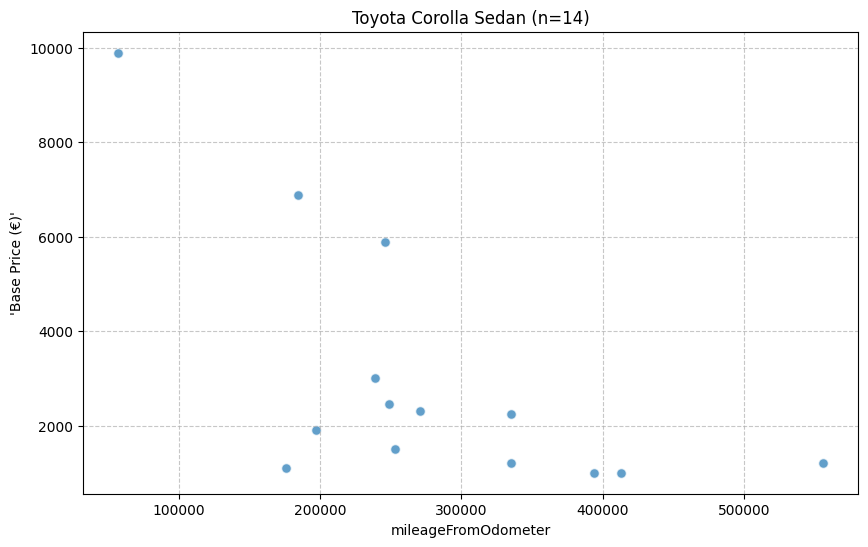
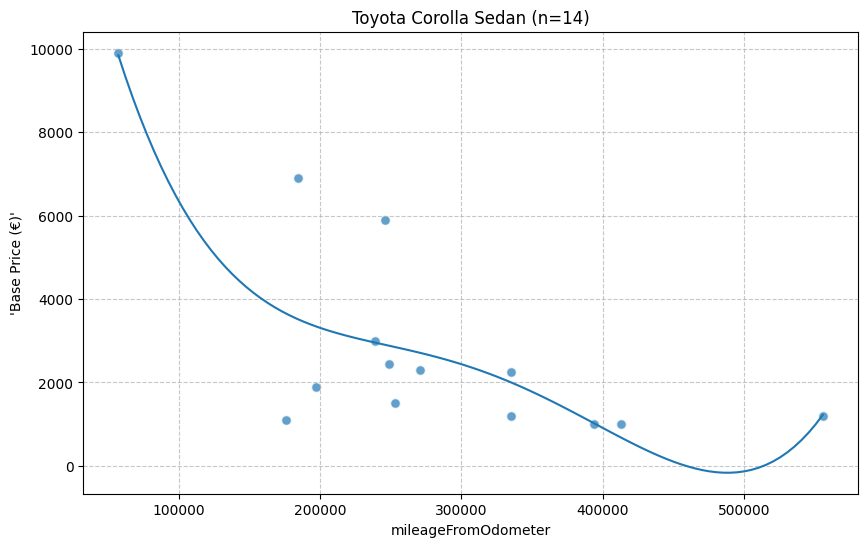
Add polynomial fit to plots
Added a fourth degree polynomial fit to better visualize the data.

diff --git a/analysis/plots.py b/analysis/plots.py
@@ -1,5 +1,6 @@
 import pandas as pd
 import matplotlib.pyplot as plt
+import numpy as np
 import os
 
 # Use this to generate plots from the .csv
@@ -23,7 +24,10 @@ def plot_price(variable, data_points_required, input, output):
         if len(group) <= data_points_required:
             continue
         plt.figure(figsize=(10, 6))
+        fit = np.poly1d(np.polyfit(group[variable], group['basePrice'], 4))
+        space = np.linspace(min(group[variable]), max(group[variable]), 100)
         plt.scatter(group[variable], group['basePrice'], alpha=0.7, edgecolors='w', s=50)    
+        plt.plot(space, fit(space))
         brand, model, variant = name
         
         plt.title(f'{brand} {model} {variant} (n={len(group)})')

diff --git a/scripts/scrape.py b/scripts/scrape.py
@@ -3,9 +3,9 @@ import time
 from pathlib import Path
 
 scraper = cloudscraper.create_scraper()
-id=15366280
+id=15357901
 while id>0:
-	path="data/html/{}.html".format(id)
+	path="../data/{}.html".format(id)
 	if not Path(path).is_file():
 		url = 'https://www.nettiauto.com/{}'.format(id)
 		response = scraper.get(url)
